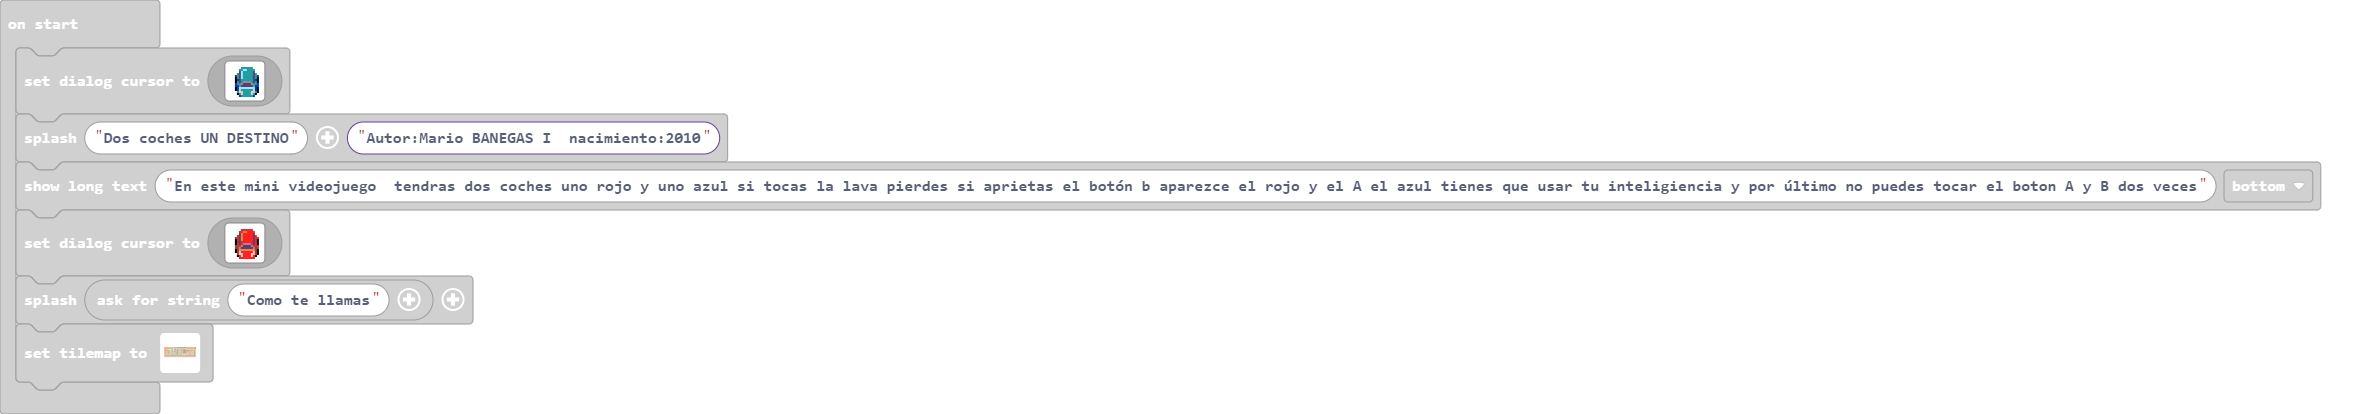
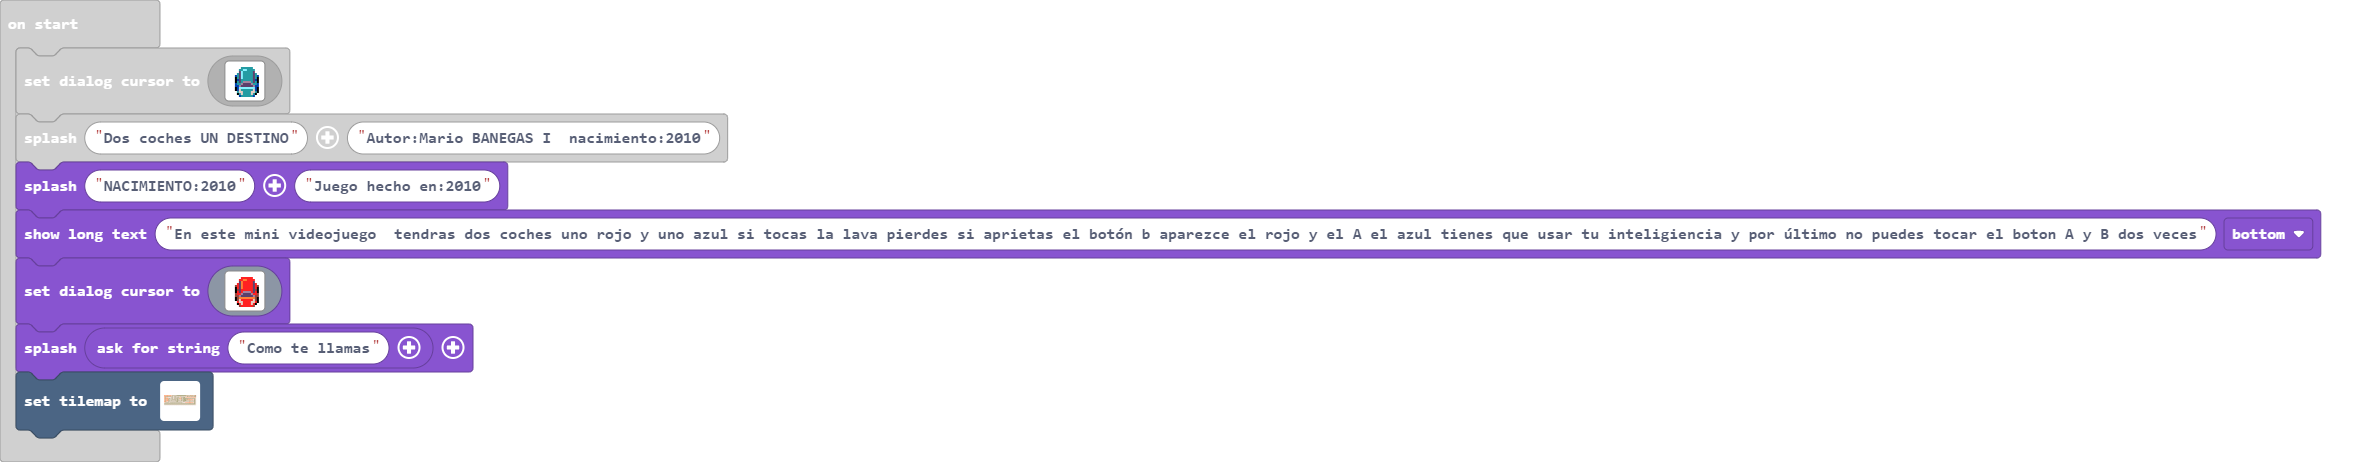
Update main.blocks, main.ts

Changed region(s): [[0.0, 0.087, 0.9979, 0.9565], [0.0, 0.029, 0.0312, 0.087], [0.0, 0.1159, 0.0312, 0.1449]]

diff --git a/main.ts b/main.ts
@@ -71,6 +71,7 @@ game.setDialogCursor(img`
     . . . . . 8 6 6 6 6 6 6 8 . . . 
     `)
 game.splash("Dos coches UN DESTINO", "Autor:Mario BANEGAS I  nacimiento:2010")
+game.splash("NACIMIENTO:2010", "Juego hecho en:2010")
 game.showLongText("En este mini videojuego  tendras dos coches uno rojo y uno azul si tocas la lava pierdes si aprietas el botón b aparezce el rojo y el A el azul tienes que usar tu inteligiencia y por último no puedes tocar el boton A y B dos veces", DialogLayout.Bottom)
 game.setDialogCursor(img`
     . . . . . . . . . . . . . . . . 
